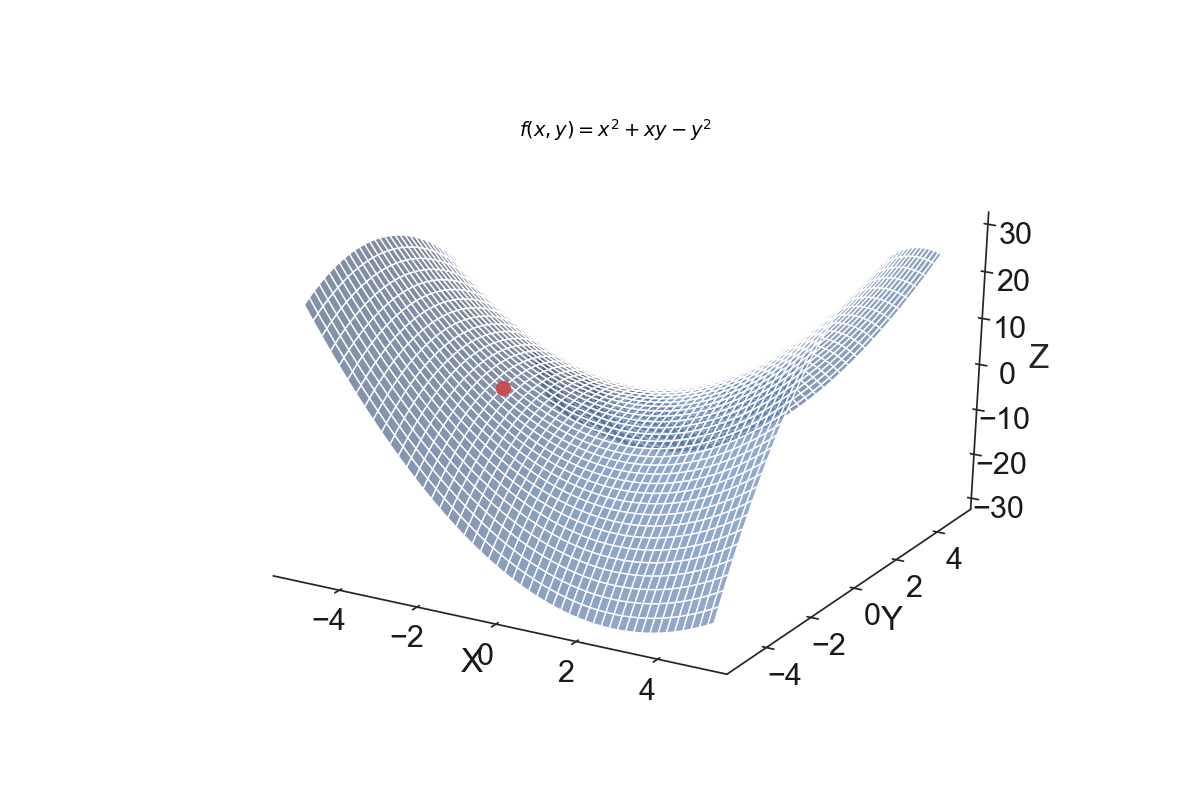
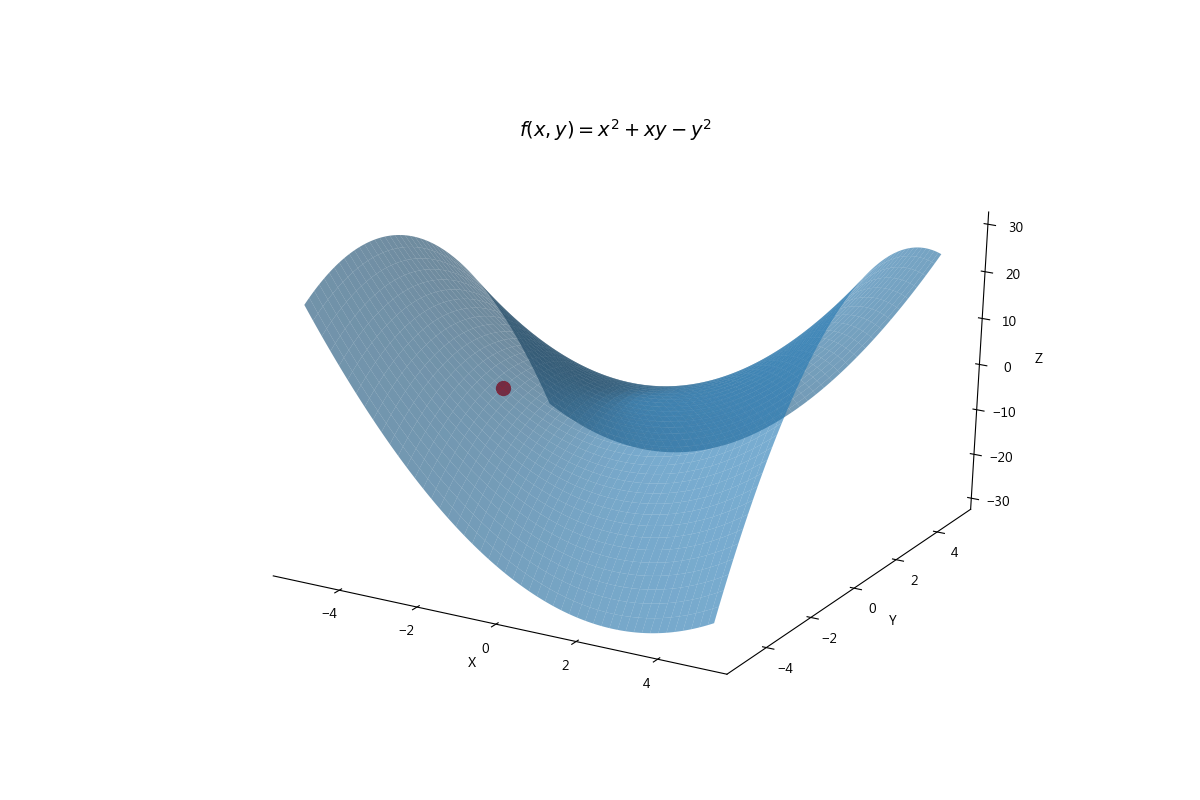
partial - prevented plots from rendering

diff --git a/content/code/univariate.py b/content/code/univariate.py
@@ -20,7 +20,7 @@ y_convex = convex(x_convex)
 # Convex points definitions
 convex_points_list = [
     {'label': 'x0', 'value':-3, 'color':'black'},
-    {'label': 'Global Minimum', 'value': 0, 'color': 'red'},
+    {'label': 'Global Minimum', 'value': 0, 'color': 'green'},
     {'label': 'x1', 'value': 3, 'color':'black'}]
 # ---------------------------------------------------------------------------- #
 # Convex Traces
@@ -43,7 +43,7 @@ t_convex = go.Scatter(x=x_convex, y=y_convex,
                       name='Convex Function',
                       marker=dict(
                           size=2,
-                          color='#2F5168'
+                          color='#1560bd'
                           )
                     )
 
@@ -83,10 +83,10 @@ x_local_min = x_range[np.argmin(nonconvex(x_range))]
 # ---------------------------------------------------------------------------- #
 # Nonconvex points 
 nonconvex_points_list = [
-    {'label': 'Global Minimum', 'value':x_global_min, 'color': 'red'},
+    {'label': 'Global Minimum', 'value':x_global_min, 'color': 'green'},
     {'label': 'x0', 'value':0.1, 'color':'black'},
     {'label': 'x1', 'value': 1, 'color':'black'},
-    {'label': 'Local Minimum', 'value':x_local_min, 'color': 'green'}]
+    {'label': 'Local Minimum', 'value':x_local_min, 'color': 'red'}]
 # ---------------------------------------------------------------------------- #
 # Nonconvex Traces
 nonconvex_points = [go.Scatter(
@@ -108,7 +108,7 @@ t_nonconvex = go.Scatter(x=x_nonconvex, y=y_nonconvex,
                       name='Non-Convex Function',
                       marker=dict(
                           size=2,
-                          color='#2F5168'
+                          color='#1560bd'
                           )
                     )
 

diff --git a/content/code/partial.py b/content/code/partial.py
@@ -82,7 +82,7 @@ ax.set_title(r"$f(x,y) = x^2+xy-y^2$", fontsize=14, color='black')
 filename = "multivariable_function.png"
 save_fig(fig, directory=directory, filename=filename)
 plt.tight_layout()
-plt.show()
+#plt.show()
 #%%
 # ---------------------------------------------------------------------------- #
 #                        Partial Derivative w.r.t X                            #
@@ -118,7 +118,7 @@ ax.set_title(r"$f(x,y) = x^2+xy-y^2$" + "\n" + "Partial Derivative w.r.t X", fon
 filename = "partial_wrt_x.png"
 save_fig(fig, directory=directory, filename=filename)
 plt.tight_layout()
-plt.show()
+#plt.show()
 #%%
 # ---------------------------------------------------------------------------- #
 #                        Partial Derivative w.r.t y                            #
@@ -154,5 +154,5 @@ ax.set_title(r"$f(x,y) = x^2+xy-y^2$" + "\n" + "Partial Derivative w.r.t Y", fon
 filename = "partial_wrt_y.png"
 save_fig(fig, directory=directory, filename=filename)
 plt.tight_layout()
-plt.show()
+#plt.show()
 #%%

diff --git a/content/code/derivative.py b/content/code/derivative.py
@@ -176,8 +176,9 @@ fig = go.Figure(
         xaxis=dict(range=[xm, xM], showticklabels=False, autorange=False, zeroline=False),
         yaxis=dict(range=[ym, yM], showticklabels=False, autorange=False, zeroline=False),
         title_text="Derivative as a Limit", hovermode="closest",
-        width=1200,
-        height=800,
+        width=800,
+        height=600,
+        margin=dict(l=40,r=40,t=40,b=0),
         showlegend=False,
         template='plotly_white',
         updatemenus=[dict(type="buttons",
